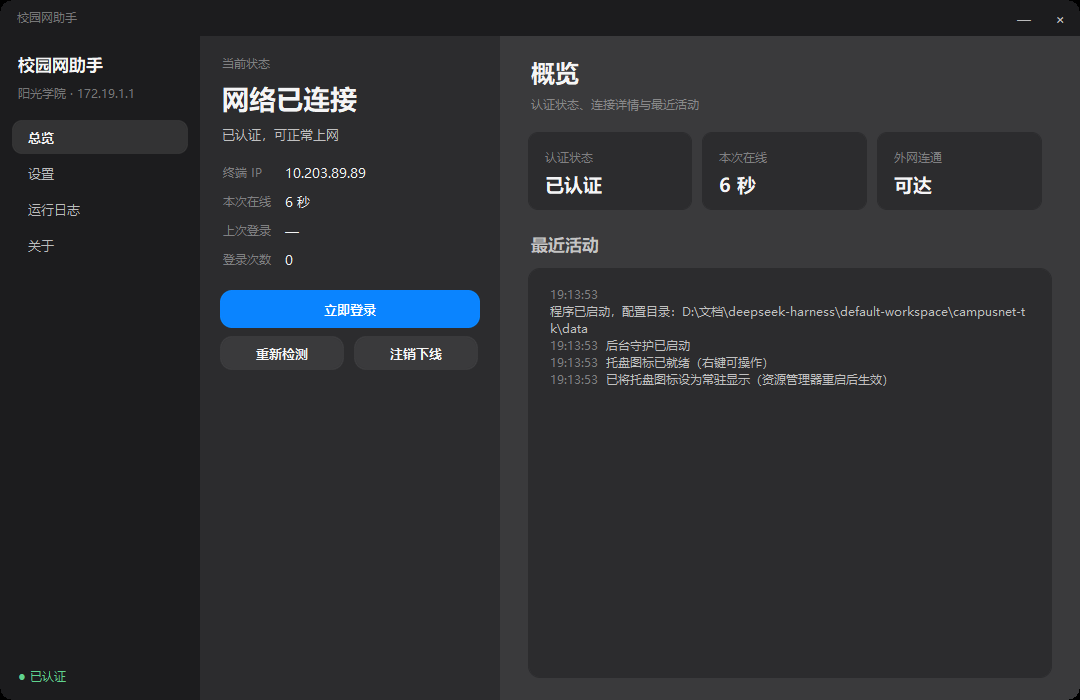
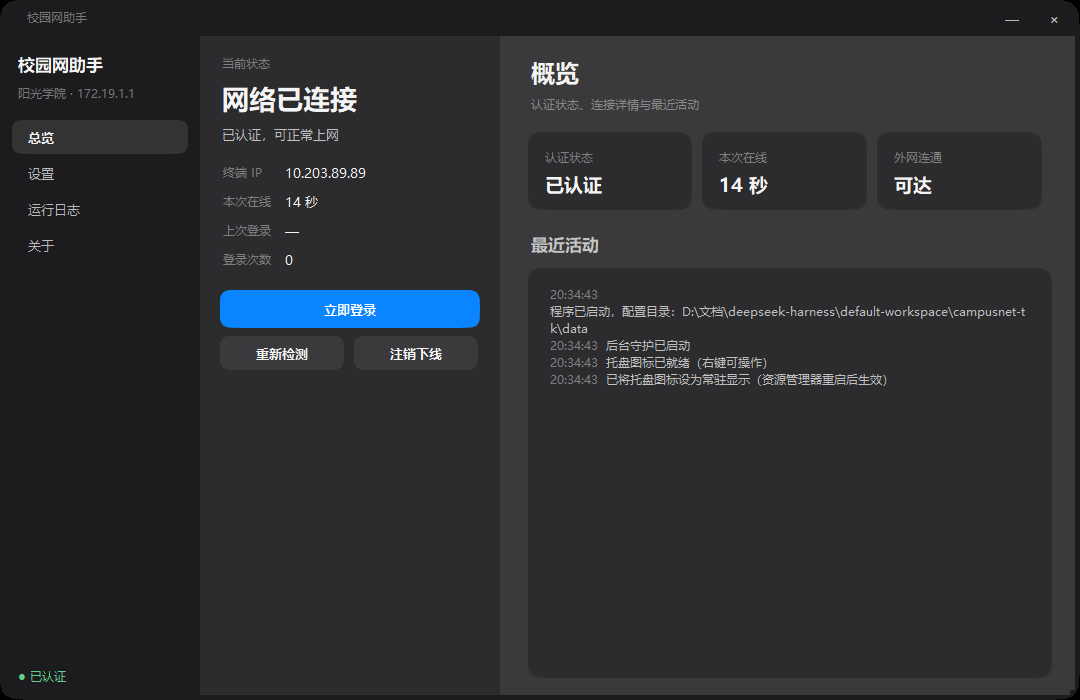
style: 圆角整体加大（窗口 34px、卡片 22px、控件 18px）

diff --git a/tk_app.py b/tk_app.py
@@ -31,9 +31,9 @@ ACCENT = "#0a84ff"
 DANGER = "#ff453a"
 WHITE = "#ffffff"
 
-RADIUS_WIN = 12
-RADIUS_CARD = 10
-RADIUS_CTRL = 8
+RADIUS_WIN = 34
+RADIUS_CARD = 22
+RADIUS_CTRL = 18
 
 
 def blend(bg: str, alpha: float) -> str:
@@ -215,7 +215,7 @@ class ScrollFrame(tk.Frame):
 class Card(tk.Frame):
     """圆角卡片：外层 Canvas 画 AA 圆角底，内层 Frame 放内容。"""
 
-    def __init__(self, master, *, bg=SURFACE, fill=MID, radius=12, padding=14):
+    def __init__(self, master, *, bg=SURFACE, fill=MID, radius=RADIUS_CARD, padding=14):
         super().__init__(master, bg=bg)
         self._canvas = RoundCanvas(self, bg=bg, fill=fill, radius=radius)
         self._canvas.pack(fill="both", expand=True)
@@ -233,7 +233,7 @@ class Button(tk.Canvas):
     """圆角按钮：AA 圆角 + 文字严格居中。"""
 
     def __init__(self, master, text, command=None, *, bg=MID, fill=SURFACE,
-                 fg=None, width=120, height=34, radius=12,
+                 fg=None, width=120, height=34, radius=RADIUS_CTRL,
                  font=F_BTN, accent=False):
         super().__init__(master, width=width, height=height, bg=bg,
                          highlightthickness=0, bd=0, takefocus=0)
@@ -276,7 +276,7 @@ class Button(tk.Canvas):
 class RoundedEntry(tk.Canvas):
     """AA 圆角输入框：Canvas 圆角底 + 同色 Entry 内嵌。"""
 
-    def __init__(self, master, *, bg=SURFACE, fill=MID, radius=10,
+    def __init__(self, master, *, bg=SURFACE, fill=MID, radius=RADIUS_CTRL,
                  height=36, show=None, fg=None, justify="left"):
         super().__init__(master, bg=bg, height=height, highlightthickness=0, bd=0, takefocus=0)
         self._fill = fill
@@ -311,7 +311,7 @@ class RoundedEntry(tk.Canvas):
 class RoundedText(tk.Canvas):
     """AA 圆角日志区：Canvas 圆角底 + 内嵌 Text。"""
 
-    def __init__(self, master, *, bg=SURFACE, fill=MID, radius=12, height=200):
+    def __init__(self, master, *, bg=SURFACE, fill=MID, radius=RADIUS_CARD, height=200):
         super().__init__(master, bg=bg, height=height, highlightthickness=0, bd=0)
         self._fill = fill
         self._radius = radius
@@ -347,11 +347,11 @@ class Toggle(tk.Canvas):
     def _paint(self, hovering=False):
         self.delete("all")
         track = ACCENT if self._on else (blend(SURFACE, .08) if hovering else SURFACE)
-        draw_round(self, 0, 0, self._cw, self._ch, 9, track)
+        draw_round(self, 0, 0, self._cw, self._ch, self._ch // 2, track)
         knob = self._ch - 8
         x = self._cw - knob - 4 if self._on else 4
         y = 4
-        draw_round(self, x, y, knob, knob, 7, WHITE)
+        draw_round(self, x, y, knob, knob, knob // 2, WHITE)
 
     def _toggle(self, _e=None):
         self._on = not self._on
@@ -405,7 +405,7 @@ class Slider(tk.Canvas):
         if x > 8:
             draw_round(self, 6, y - 3, x - 6, 6, 3, ACCENT)
         r = 7
-        draw_round(self, x - r, y - r, r * 2, r * 2, 5, WHITE)
+        draw_round(self, x - r, y - r, r * 2, r * 2, r, WHITE)
 
     def _drag(self, event):
         ratio = (event.x - 12) / max(1, self._cw - 24)
@@ -450,7 +450,7 @@ class NavItem(tk.Canvas):
         else:
             fill = None
         if fill:
-            draw_round(self, 0, 0, self._cw, self._ch, 10, fill)
+            draw_round(self, 0, 0, self._cw, self._ch, 16, fill)
         self.create_text(16, self._ch / 2, text=self._text, anchor="w",
                          font=F_BODY_B if self._active else F_BODY,
                          fill=T1_D if self._active else T2_D)
@@ -477,7 +477,7 @@ class IconButton(tk.Canvas):
     def _paint(self, hover=False):
         self.delete("all")
         if hover:
-            draw_round(self, 0, 0, self._cw, self._ch, 9,
+            draw_round(self, 0, 0, self._cw, self._ch, 14,
                        DANGER if self._danger else blend(DEEP, .12))
         self.create_text(self._cw / 2, self._ch / 2, text=self._glyph,
                          fill=WHITE if hover else T2_D, font=(FONT, 10, "bold"))
@@ -728,11 +728,11 @@ class App(tk.Tk):
         bar.pack(fill="x")
         bar.pack_propagate(False)
         title = tk.Label(bar, text="校园网助手", bg=DEEP, fg=T3_D, font=F_SMALL)
-        title.pack(side="left", padx=14)
+        title.pack(side="left", padx=(24, 0))
 
         for text, cmd, danger in (("×", self.hide_to_tray, True), ("—", self._minimize, False)):
             IconButton(bar, text, cmd, bg=DEEP, danger=danger).pack(
-                side="right", padx=(0, 4), pady=6)
+                side="right", padx=(0, 10), pady=6)
 
         for w in (bar, title):
             w.bind("<ButtonPress-1>", self._drag_start)

diff --git a/README.md b/README.md
@@ -45,7 +45,7 @@
 | 无发光 / 无大阴影 | 不使用任何 shadow，窗口靠圆角与色差成形 |
 | 无装饰动画 | 只有颜色瞬切（200ms 级观感），无位移/缩放 |
 | 无描边 | **按你的要求去掉了 1px 边框**，按钮、选框全靠底色明暗区分 |
-| 圆角 | **超椭圆（squircle, n≈4）**，不是圆弧：窗口 12px、卡片 12px、按钮 12px、输入框 10px、导航 10px、开关胶囊；全部 4× 超采样抗锯齿 |
+| 圆角 | **超椭圆（squircle, n≈4）**，不是圆弧：窗口 34px、卡片/日志区 22px、按钮与输入框 18px、导航 16px、标题栏按钮 14px、开关胶囊；全部 4× 超采样抗锯齿 |
 | 字体 | **统一系统黑体（Microsoft YaHei UI）**，只有字重差异（Regular / Bold），不引入任何需授权的第三方字体 |
 | 文本层次 | 白 95% / 70% / 40% 三档（按底色混合计算） |
 | 悬停 | 底色提亮 5%～9%，无位移、无缩放 |
